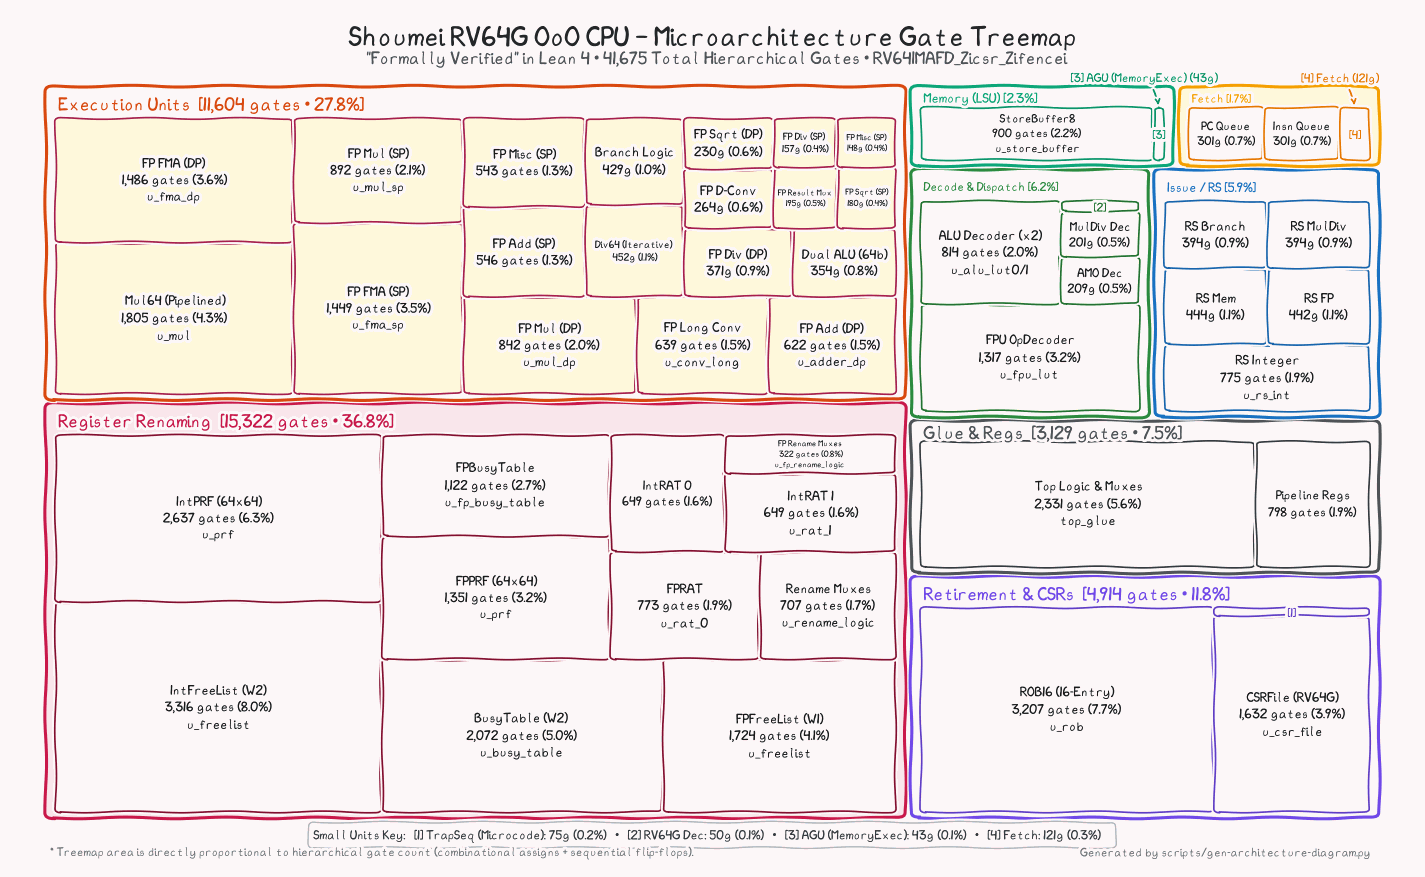
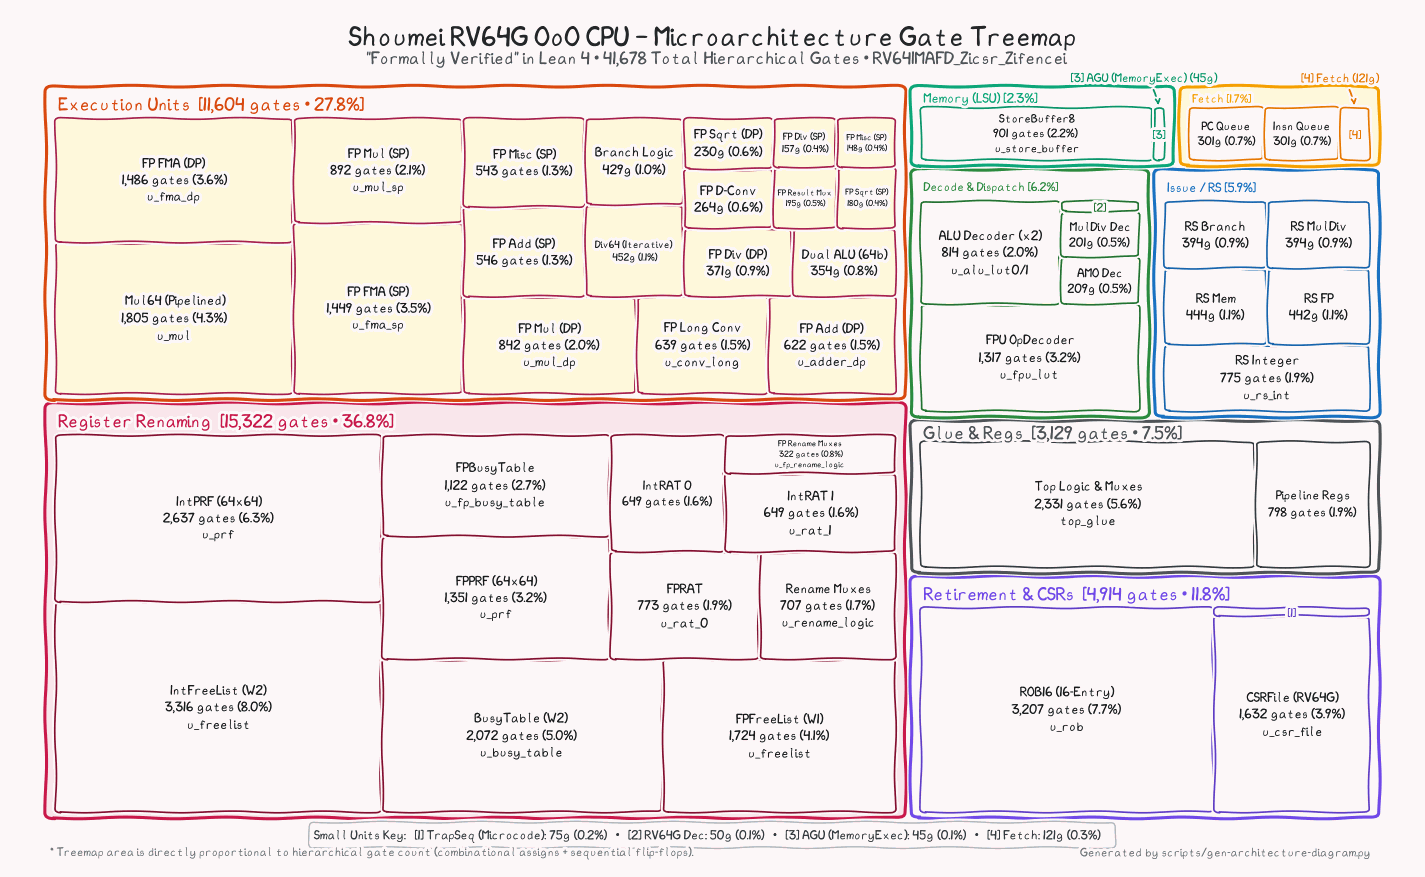
Strip debug prints from cache harness; refresh treemap
cppcheck style gates (cstyleCast/constVariablePointer) hit the
getenv(DBG) instrumentation in cache_conformance.cpp; removed those
blocks (env gates for stress/NO_D3 stay).  Regenerate the architecture
treemap for the retimed LSU/SB/cache topology so the committed PNG
matches the emitted SV.

diff --git a/testbench/cache_model_test/cache_conformance.cpp b/testbench/cache_model_test/cache_conformance.cpp
@@ -67,8 +67,6 @@ struct RefCache {
     uint32_t base = (a & ~(szb - 1)) & 31;
     for (uint32_t b = 0; b < szb; b++) ln->d[base + (b & 7)] = (wdata >> (8 * b)) & 0xFF;
     ln->dirty = true;
-    if (getenv("DBG")) printf("    writeHit szb=%u base=%u d0=%02x d1=%02x d7=%02x dirty=%d\n",
-      szb, base, ln->d[0], ln->d[1], ln->d[7], (int)ln->dirty);
   }
   uint64_t readDword(uint32_t a) {
     Line* ln = find(a);
@@ -207,7 +205,6 @@ struct Tester {
       uint32_t szb = 1u << sz;
       expectResp = true;      // hit read, miss read, or write-miss refill all resp
       respAddr = a;
-      if (getenv("DBG") && we) printf("    commit ST we=%d a=%x wd=%llx sz=%u\n", we, a, (unsigned long long)wd, sz);
       if (we) {
         if (ref.find(a)) { ref.writeHit(a, wd, szb); expectResp = false; }
         else { missLine = a & ~31u; m = M::REQ; }   // KNOWN-GAP: store dropped
@@ -287,21 +284,7 @@ int main(int argc, char** argv) {
 
   // D2: write hit -> read back
   printf("D2 write hit -> read back\n");
-  if (getenv("DBG")) {
-    auto ln = t.ref.find(0x100);
-    printf("  D2 pre-write: line=%p dirty=%d d0..7=%02x%02x%02x%02x%02x%02x%02x%02x\n",
-      (void*)ln, ln ? (int)ln->dirty : -1,
-      ln ? ln->d[0]:0, ln?ln->d[1]:0, ln?ln->d[2]:0, ln?ln->d[3]:0,
-      ln?ln->d[4]:0, ln?ln->d[5]:0, ln?ln->d[6]:0, ln?ln->d[7]:0);
-  }
   t.dut.issue(0x100, true, 0xDEADBEEFCAFE1234ull, 8); t.cycle(); t.dut.deassert(); drain(t, 2);
-  if (getenv("DBG")) {
-    auto ln = t.ref.find(0x100);
-    printf("  D2 post-write: line=%p dirty=%d d0..7=%02x%02x%02x%02x%02x%02x%02x%02x\n",
-      (void*)ln, ln ? (int)ln->dirty : -1,
-      ln ? ln->d[0]:0, ln?ln->d[1]:0, ln?ln->d[2]:0, ln?ln->d[3]:0,
-      ln?ln->d[4]:0, ln?ln->d[5]:0, ln?ln->d[6]:0, ln?ln->d[7]:0);
-  }
   t.dut.issue(0x100, false, 0, 8); t.cycle(); t.dut.deassert(); drain(t, 4);
   check(t.ref.readDword(0x100) == 0xDEADBEEFCAFE1234ull, "D2 read-after-write value");
 
